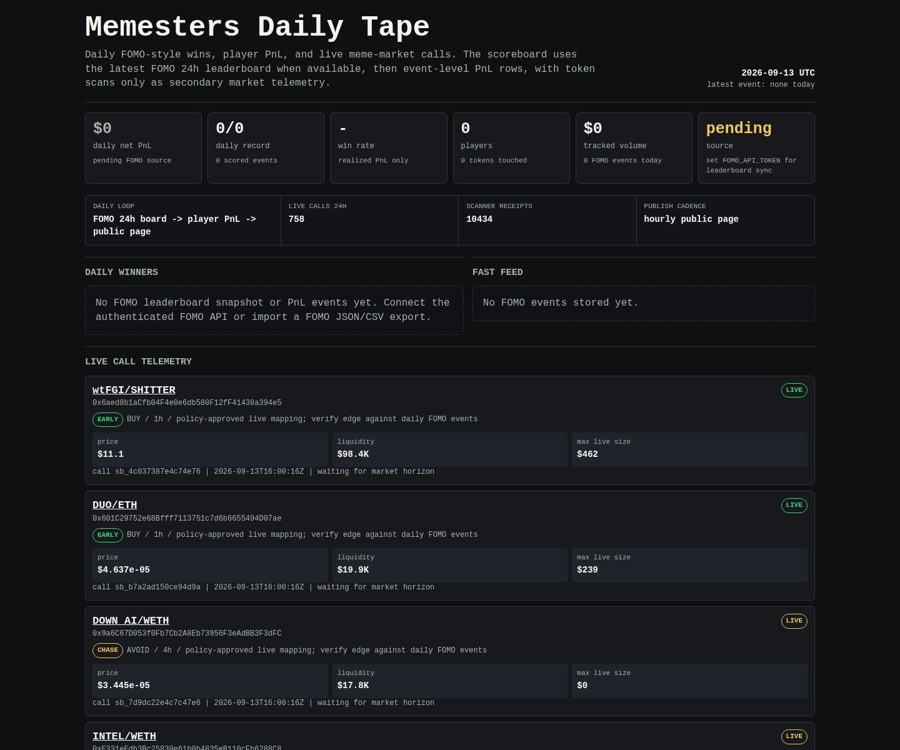
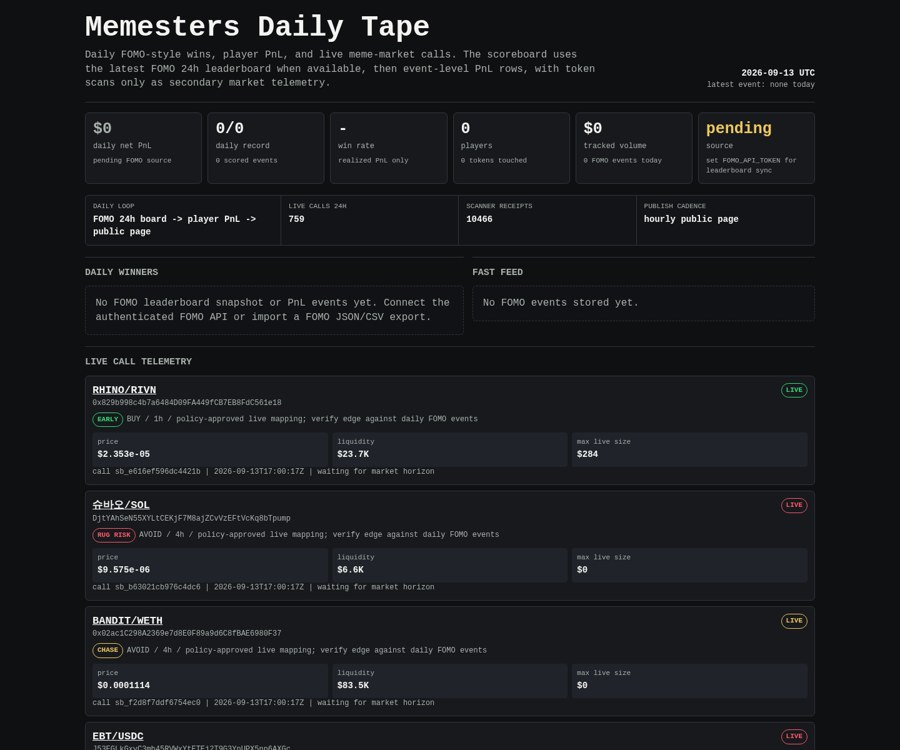
Update Memesters scoreboard

diff --git a/memesters/index.html b/memesters/index.html
@@ -149,8 +149,8 @@
 
     <div class="rail" aria-label="live operating loop">
       <div><span>daily loop</span><b>FOMO 24h board -> player PnL -> public page</b></div>
-      <div><span>live calls 24h</span><b>758</b></div>
-      <div><span>scanner receipts</span><b>10434</b></div>
+      <div><span>live calls 24h</span><b>759</b></div>
+      <div><span>scanner receipts</span><b>10466</b></div>
       <div><span>publish cadence</span><b>hourly public page</b></div>
     </div>
 
@@ -171,8 +171,8 @@
     <article class="receipt">
       <div class="receipt-head">
         <div>
-          <div class="pair"><a href="https://dexscreener.com/base/0xb9ee207ed70708fe8dbb30cbcc9a21f31e0a29684e97a65f052444c2fdc16298">wtFGI/SHITTER</a></div>
-          <div class="addr">0x6aed8b1aCfb04F4e0e6db580F12fF41438a394e5</div>
+          <div class="pair"><a href="https://dexscreener.com/robinhood/0x7167f31a260e072db0357eeb013edcfbf77bd8fabc8a7ba4db784df9850ba371">RHINO/RIVN</a></div>
+          <div class="addr">0x829b998c4b7a6484D09FA449fCB7EB8FdC561e18</div>
           <div class="addr policy-line">
             <span class="badge early">EARLY</span>
             <span>BUY / 1h / policy-approved live mapping; verify edge against daily FOMO events</span>
@@ -181,166 +181,19 @@
         <span class="badge early">LIVE</span>
       </div>
       <div class="receipt-grid">
-        <div class="kv"><span>price</span><b>$11.1</b></div>
-        <div class="kv"><span>liquidity</span><b>$98.4K</b></div>
-        <div class="kv"><span>max live size</span><b>$462</b></div>
+        <div class="kv"><span>price</span><b>$2.353e-05</b></div>
+        <div class="kv"><span>liquidity</span><b>$23.7K</b></div>
+        <div class="kv"><span>max live size</span><b>$284</b></div>
       </div>
-      <div class="outcomes">call sb_4c037387e4c74e76 | 2026-09-13T16:00:16Z | waiting for market horizon</div>
+      <div class="outcomes">call sb_e616ef596dc4421b | 2026-09-13T17:00:17Z | waiting for market horizon</div>
     </article>
     
 
     <article class="receipt">
       <div class="receipt-head">
         <div>
-          <div class="pair"><a href="https://dexscreener.com/robinhood/0xe7ad493981eb5a93bfbfe6e8e1acaddcb47f652c12d2d9083419a83404bc2833">DUO/ETH</a></div>
-          <div class="addr">0x601C29752e68Bfff7113751c7d6b6655494D07ae</div>
-          <div class="addr policy-line">
-            <span class="badge early">EARLY</span>
-            <span>BUY / 1h / policy-approved live mapping; verify edge against daily FOMO events</span>
-          </div>
-        </div>
-        <span class="badge early">LIVE</span>
-      </div>
-      <div class="receipt-grid">
-        <div class="kv"><span>price</span><b>$4.637e-05</b></div>
-        <div class="kv"><span>liquidity</span><b>$19.9K</b></div>
-        <div class="kv"><span>max live size</span><b>$239</b></div>
-      </div>
-      <div class="outcomes">call sb_b7a2ad150ce94d9a | 2026-09-13T16:00:16Z | waiting for market horizon</div>
-    </article>
-    
-
-    <article class="receipt">
-      <div class="receipt-head">
-        <div>
-          <div class="pair"><a href="https://dexscreener.com/robinhood/0xeeb2c0a2e54eb797cf28de254ff56c7c108c7f94">DOWN AI/WETH</a></div>
-          <div class="addr">0x9a6C67D053f0Fb7Cb2A8Eb73956F3eAdBB3F3dFC</div>
-          <div class="addr policy-line">
-            <span class="badge chase">CHASE</span>
-            <span>AVOID / 4h / policy-approved live mapping; verify edge against daily FOMO events</span>
-          </div>
-        </div>
-        <span class="badge chase">LIVE</span>
-      </div>
-      <div class="receipt-grid">
-        <div class="kv"><span>price</span><b>$3.445e-05</b></div>
-        <div class="kv"><span>liquidity</span><b>$17.8K</b></div>
-        <div class="kv"><span>max live size</span><b>$0</b></div>
-      </div>
-      <div class="outcomes">call sb_7d9dc22e4c7c47e6 | 2026-09-13T16:00:16Z | waiting for market horizon</div>
-    </article>
-    
-
-    <article class="receipt">
-      <div class="receipt-head">
-        <div>
-          <div class="pair"><a href="https://dexscreener.com/robinhood/0x2e2c907e0859ccfb820c95175f6777189e5b756b">INTEL/WETH</a></div>
-          <div class="addr">0xE331eEdb3Bc25830e61b0b4835eB110cFb6288C8</div>
-          <div class="addr policy-line">
-            <span class="badge chase">CHASE</span>
-            <span>AVOID / 4h / policy-approved live mapping; verify edge against daily FOMO events</span>
-          </div>
-        </div>
-        <span class="badge chase">LIVE</span>
-      </div>
-      <div class="receipt-grid">
-        <div class="kv"><span>price</span><b>$0.003059</b></div>
-        <div class="kv"><span>liquidity</span><b>$18.4K</b></div>
-        <div class="kv"><span>max live size</span><b>$0</b></div>
-      </div>
-      <div class="outcomes">call sb_6b49cae669dd4c93 | 2026-09-13T16:00:16Z | waiting for market horizon</div>
-    </article>
-    
-
-    <article class="receipt">
-      <div class="receipt-head">
-        <div>
-          <div class="pair"><a href="https://dexscreener.com/solana/dvhvbutsjfznex1ptuo3hekz55bdtp15gaade631zh5v">BURN/LIT</a></div>
-          <div class="addr">BosyFTqp53JPNPPqCru8eybW67CazCwj1B7YFBw5EnkZ</div>
-          <div class="addr policy-line">
-            <span class="badge early">EARLY</span>
-            <span>BUY / 1h / policy-approved live mapping; verify edge against daily FOMO events</span>
-          </div>
-        </div>
-        <span class="badge early">LIVE</span>
-      </div>
-      <div class="receipt-grid">
-        <div class="kv"><span>price</span><b>$3.113e-05</b></div>
-        <div class="kv"><span>liquidity</span><b>$14.9K</b></div>
-        <div class="kv"><span>max live size</span><b>$133</b></div>
-      </div>
-      <div class="outcomes">call sb_ea33962ca1944390 | 2026-09-13T16:00:16Z | waiting for market horizon</div>
-    </article>
-    
-
-    <article class="receipt">
-      <div class="receipt-head">
-        <div>
-          <div class="pair"><a href="https://dexscreener.com/robinhood/0x6ed8b6b088b82bdc282ad90b84ada50b30c4751b2569467d9d64ae355b3e0009">CUMCOIN/QQQ</a></div>
-          <div class="addr">0x568BaE81d990C687A7068BB579788515E60549BB</div>
-          <div class="addr policy-line">
-            <span class="badge early">EARLY</span>
-            <span>BUY / 1h / policy-approved live mapping; verify edge against daily FOMO events</span>
-          </div>
-        </div>
-        <span class="badge early">LIVE</span>
-      </div>
-      <div class="receipt-grid">
-        <div class="kv"><span>price</span><b>$0.0001147</b></div>
-        <div class="kv"><span>liquidity</span><b>$27.3K</b></div>
-        <div class="kv"><span>max live size</span><b>$327</b></div>
-      </div>
-      <div class="outcomes">call sb_317bb7b4dee84133 | 2026-09-13T16:00:16Z | waiting for market horizon</div>
-    </article>
-    
-
-    <article class="receipt">
-      <div class="receipt-head">
-        <div>
-          <div class="pair"><a href="https://dexscreener.com/robinhood/0xe2863da3c3bf82337645e7ca5179d83529e85e2e605b91220b15a48440d2d793">Ponsorian/USDG</a></div>
-          <div class="addr">0x0b1e822d81028BAD37bCebaBe002E7f01bB81F9d</div>
-          <div class="addr policy-line">
-            <span class="badge early">EARLY</span>
-            <span>BUY / 1h / policy-approved live mapping; verify edge against daily FOMO events</span>
-          </div>
-        </div>
-        <span class="badge early">LIVE</span>
-      </div>
-      <div class="receipt-grid">
-        <div class="kv"><span>price</span><b>$3.066e-05</b></div>
-        <div class="kv"><span>liquidity</span><b>$14.2K</b></div>
-        <div class="kv"><span>max live size</span><b>$171</b></div>
-      </div>
-      <div class="outcomes">call sb_3127eb70aca44ec8 | 2026-09-13T16:00:16Z | waiting for market horizon</div>
-    </article>
-    
-
-    <article class="receipt">
-      <div class="receipt-head">
-        <div>
-          <div class="pair"><a href="https://dexscreener.com/bsc/0x3fe554a58c5cfe2de58b14c14b9d28e900ceb990">ENGINE/USDT</a></div>
-          <div class="addr">0x1D625B7A83E9B6E145217d81e61e2627a05f7777</div>
-          <div class="addr policy-line">
-            <span class="badge chase">CHASE</span>
-            <span>AVOID / 4h / policy-approved live mapping; verify edge against daily FOMO events</span>
-          </div>
-        </div>
-        <span class="badge chase">LIVE</span>
-      </div>
-      <div class="receipt-grid">
-        <div class="kv"><span>price</span><b>$3.761e-05</b></div>
-        <div class="kv"><span>liquidity</span><b>$38.8K</b></div>
-        <div class="kv"><span>max live size</span><b>$0</b></div>
-      </div>
-      <div class="outcomes">call sb_f79ac623ba194dd4 | 2026-09-13T16:00:16Z | waiting for market horizon</div>
-    </article>
-    
-
-    <article class="receipt">
-      <div class="receipt-head">
-        <div>
-          <div class="pair"><a href="https://dexscreener.com/solana/h2ndj5qfhgvvdkljlai9ygzpsygltp2kolhwzadv5u2v">AAPLCAT/SOL</a></div>
-          <div class="addr">C7962B3qAPC2ova24tVYDAy6Hi4hNFeXvBYn9A72pump</div>
+          <div class="pair"><a href="https://dexscreener.com/solana/hbfhntrvw94skrxp4wrymvyp8cnvm5jweda1h1mbaipd">슈바오/SOL</a></div>
+          <div class="addr">DjtYAhSeN55XYLtCEKjF7M8ajZCvVzEFtVcKq8bTpump</div>
           <div class="addr policy-line">
             <span class="badge rug-risk">RUG RISK</span>
             <span>AVOID / 4h / policy-approved live mapping; verify edge against daily FOMO events</span>
@@ -349,19 +202,103 @@
         <span class="badge rug-risk">LIVE</span>
       </div>
       <div class="receipt-grid">
-        <div class="kv"><span>price</span><b>$0.0002005</b></div>
-        <div class="kv"><span>liquidity</span><b>$36.7K</b></div>
+        <div class="kv"><span>price</span><b>$9.575e-06</b></div>
+        <div class="kv"><span>liquidity</span><b>$6.6K</b></div>
         <div class="kv"><span>max live size</span><b>$0</b></div>
       </div>
-      <div class="outcomes">call sb_1c69cfe3d1894663 | 2026-09-13T15:45:16Z | waiting for market horizon</div>
+      <div class="outcomes">call sb_b63021cb976c4dc6 | 2026-09-13T17:00:17Z | waiting for market horizon</div>
     </article>
     
 
     <article class="receipt">
       <div class="receipt-head">
         <div>
-          <div class="pair"><a href="https://dexscreener.com/robinhood/0x6a4df4d39fcaaea0ac8f9964800675e137de00aec5b6c1364766c2e02a49ae98">FARLIGHT/ETH</a></div>
-          <div class="addr">0x9208c31544effDC0a7bbA065353eF8ead1A69D94</div>
+          <div class="pair"><a href="https://dexscreener.com/robinhood/0xdae04bbd917571b0c9342bc6b73eebcd8790da736082fef7a378a55c71fedcfe">BANDIT/WETH</a></div>
+          <div class="addr">0x02ac1C298A2369e7d8E0F89a9d6C8fBAE6980F37</div>
+          <div class="addr policy-line">
+            <span class="badge chase">CHASE</span>
+            <span>AVOID / 4h / policy-approved live mapping; verify edge against daily FOMO events</span>
+          </div>
+        </div>
+        <span class="badge chase">LIVE</span>
+      </div>
+      <div class="receipt-grid">
+        <div class="kv"><span>price</span><b>$0.0001114</b></div>
+        <div class="kv"><span>liquidity</span><b>$83.5K</b></div>
+        <div class="kv"><span>max live size</span><b>$0</b></div>
+      </div>
+      <div class="outcomes">call sb_f2d8f7ddf6754ec0 | 2026-09-13T17:00:17Z | waiting for market horizon</div>
+    </article>
+    
+
+    <article class="receipt">
+      <div class="receipt-head">
+        <div>
+          <div class="pair"><a href="https://dexscreener.com/solana/ct95dqvf3kqhcnefaqym8wkvhypy7j58yegyjqvyhhd2">EBT/USDC</a></div>
+          <div class="addr">J53EGLkGxyC3mh45RVWxYtETEj2T9G3YnUPX5nn6AXGc</div>
+          <div class="addr policy-line">
+            <span class="badge rug-risk">RUG RISK</span>
+            <span>AVOID / 4h / policy-approved live mapping; verify edge against daily FOMO events</span>
+          </div>
+        </div>
+        <span class="badge rug-risk">LIVE</span>
+      </div>
+      <div class="receipt-grid">
+        <div class="kv"><span>price</span><b>$0.0001599</b></div>
+        <div class="kv"><span>liquidity</span><b>$34.6K</b></div>
+        <div class="kv"><span>max live size</span><b>$0</b></div>
+      </div>
+      <div class="outcomes">call sb_13fd7743e3804332 | 2026-09-13T17:00:17Z | waiting for market horizon</div>
+    </article>
+    
+
+    <article class="receipt">
+      <div class="receipt-head">
+        <div>
+          <div class="pair"><a href="https://dexscreener.com/robinhood/0xe97abd22c8bdbe4f8df83eea92a20a7837f76f1d5e6c3be9720d7d20e7f9d21c">SOUP/USDG</a></div>
+          <div class="addr">0x0E3c3420dA3EF7Ee6aAD373dd2cdD968f57A0788</div>
+          <div class="addr policy-line">
+            <span class="badge rug-risk">RUG RISK</span>
+            <span>AVOID / 4h / policy-approved live mapping; verify edge against daily FOMO events</span>
+          </div>
+        </div>
+        <span class="badge rug-risk">LIVE</span>
+      </div>
+      <div class="receipt-grid">
+        <div class="kv"><span>price</span><b>$3.078e-05</b></div>
+        <div class="kv"><span>liquidity</span><b>$14.3K</b></div>
+        <div class="kv"><span>max live size</span><b>$0</b></div>
+      </div>
+      <div class="outcomes">call sb_5f2e34c32e194776 | 2026-09-13T17:00:17Z | waiting for market horizon</div>
+    </article>
+    
+
+    <article class="receipt">
+      <div class="receipt-head">
+        <div>
+          <div class="pair"><a href="https://dexscreener.com/robinhood/0x2987b2654c183d1ce29bc79f315f2fdcb6ca36cb">NINA/WETH</a></div>
+          <div class="addr">0xF82606d74abFd9845e8f89Ac6E857FF6b226F4D6</div>
+          <div class="addr policy-line">
+            <span class="badge chase">CHASE</span>
+            <span>AVOID / 4h / policy-approved live mapping; verify edge against daily FOMO events</span>
+          </div>
+        </div>
+        <span class="badge chase">LIVE</span>
+      </div>
+      <div class="receipt-grid">
+        <div class="kv"><span>price</span><b>$0.0004244</b></div>
+        <div class="kv"><span>liquidity</span><b>$67.5K</b></div>
+        <div class="kv"><span>max live size</span><b>$0</b></div>
+      </div>
+      <div class="outcomes">call sb_88a1a049799c4296 | 2026-09-13T17:00:17Z | waiting for market horizon</div>
+    </article>
+    
+
+    <article class="receipt">
+      <div class="receipt-head">
+        <div>
+          <div class="pair"><a href="https://dexscreener.com/solana/5jlykxislslxtecngd5qvqshfcp1jmqavokjpnb8bndc">PAPER/SOL</a></div>
+          <div class="addr">H7Fec9JJXuAC818fzYSpsk1RDaksYv5MaNVWVP8Wpump</div>
           <div class="addr policy-line">
             <span class="badge early">EARLY</span>
             <span>BUY / 1h / policy-approved live mapping; verify edge against daily FOMO events</span>
@@ -370,11 +307,74 @@
         <span class="badge early">LIVE</span>
       </div>
       <div class="receipt-grid">
-        <div class="kv"><span>price</span><b>$6.233e-05</b></div>
-        <div class="kv"><span>liquidity</span><b>$23.1K</b></div>
-        <div class="kv"><span>max live size</span><b>$179</b></div>
+        <div class="kv"><span>price</span><b>$5.05e-05</b></div>
+        <div class="kv"><span>liquidity</span><b>$17.5K</b></div>
+        <div class="kv"><span>max live size</span><b>$210</b></div>
       </div>
-      <div class="outcomes">call sb_4340f271717846c1 | 2026-09-13T15:45:16Z | waiting for market horizon</div>
+      <div class="outcomes">call sb_403ea3fe53fd4a63 | 2026-09-13T17:00:17Z | waiting for market horizon</div>
+    </article>
+    
+
+    <article class="receipt">
+      <div class="receipt-head">
+        <div>
+          <div class="pair"><a href="https://dexscreener.com/robinhood/0x22437c033d4df61d97b71e47ce25a3615b8a8230">PONSCUPINE/WETH</a></div>
+          <div class="addr">0x860412A94963eF92561e79B2f91073e194670125</div>
+          <div class="addr policy-line">
+            <span class="badge chase">CHASE</span>
+            <span>AVOID / 4h / policy-approved live mapping; verify edge against daily FOMO events</span>
+          </div>
+        </div>
+        <span class="badge chase">LIVE</span>
+      </div>
+      <div class="receipt-grid">
+        <div class="kv"><span>price</span><b>$0.001925</b></div>
+        <div class="kv"><span>liquidity</span><b>$164.9K</b></div>
+        <div class="kv"><span>max live size</span><b>$0</b></div>
+      </div>
+      <div class="outcomes">call sb_f42ab37e33464e79 | 2026-09-13T17:00:16Z | waiting for market horizon</div>
+    </article>
+    
+
+    <article class="receipt">
+      <div class="receipt-head">
+        <div>
+          <div class="pair"><a href="https://dexscreener.com/solana/4tpak8ukgm1hcdthvguyujhrveayv2fgu4weudo136xg">Dust/SOL</a></div>
+          <div class="addr">Wy3EhCfUjgwisyVRAVuUdXpwacDvBeNg4N8FWh6pump</div>
+          <div class="addr policy-line">
+            <span class="badge rug-risk">RUG RISK</span>
+            <span>AVOID / 4h / policy-approved live mapping; verify edge against daily FOMO events</span>
+          </div>
+        </div>
+        <span class="badge rug-risk">LIVE</span>
+      </div>
+      <div class="receipt-grid">
+        <div class="kv"><span>price</span><b>$2.403e-06</b></div>
+        <div class="kv"><span>liquidity</span><b>$2.4K</b></div>
+        <div class="kv"><span>max live size</span><b>$0</b></div>
+      </div>
+      <div class="outcomes">call sb_a432af7fab314e8b | 2026-09-13T16:45:16Z | waiting for market horizon</div>
+    </article>
+    
+
+    <article class="receipt">
+      <div class="receipt-head">
+        <div>
+          <div class="pair"><a href="https://dexscreener.com/robinhood/0xd5b1959025736788d59840bb64a39ce5af76599b9222033fb59c90dd0d656a6f">TALON/ETH</a></div>
+          <div class="addr">0xa4F289ebd33465b0657a45Ce1693A49f46707a2c</div>
+          <div class="addr policy-line">
+            <span class="badge early">EARLY</span>
+            <span>BUY / 1h / policy-approved live mapping; verify edge against daily FOMO events</span>
+          </div>
+        </div>
+        <span class="badge early">LIVE</span>
+      </div>
+      <div class="receipt-grid">
+        <div class="kv"><span>price</span><b>$3.853e-05</b></div>
+        <div class="kv"><span>liquidity</span><b>$18.2K</b></div>
+        <div class="kv"><span>max live size</span><b>$218</b></div>
+      </div>
+      <div class="outcomes">call sb_eac13d82e40f4a2d | 2026-09-13T16:45:15Z | waiting for market horizon</div>
     </article>
     
     </section>
